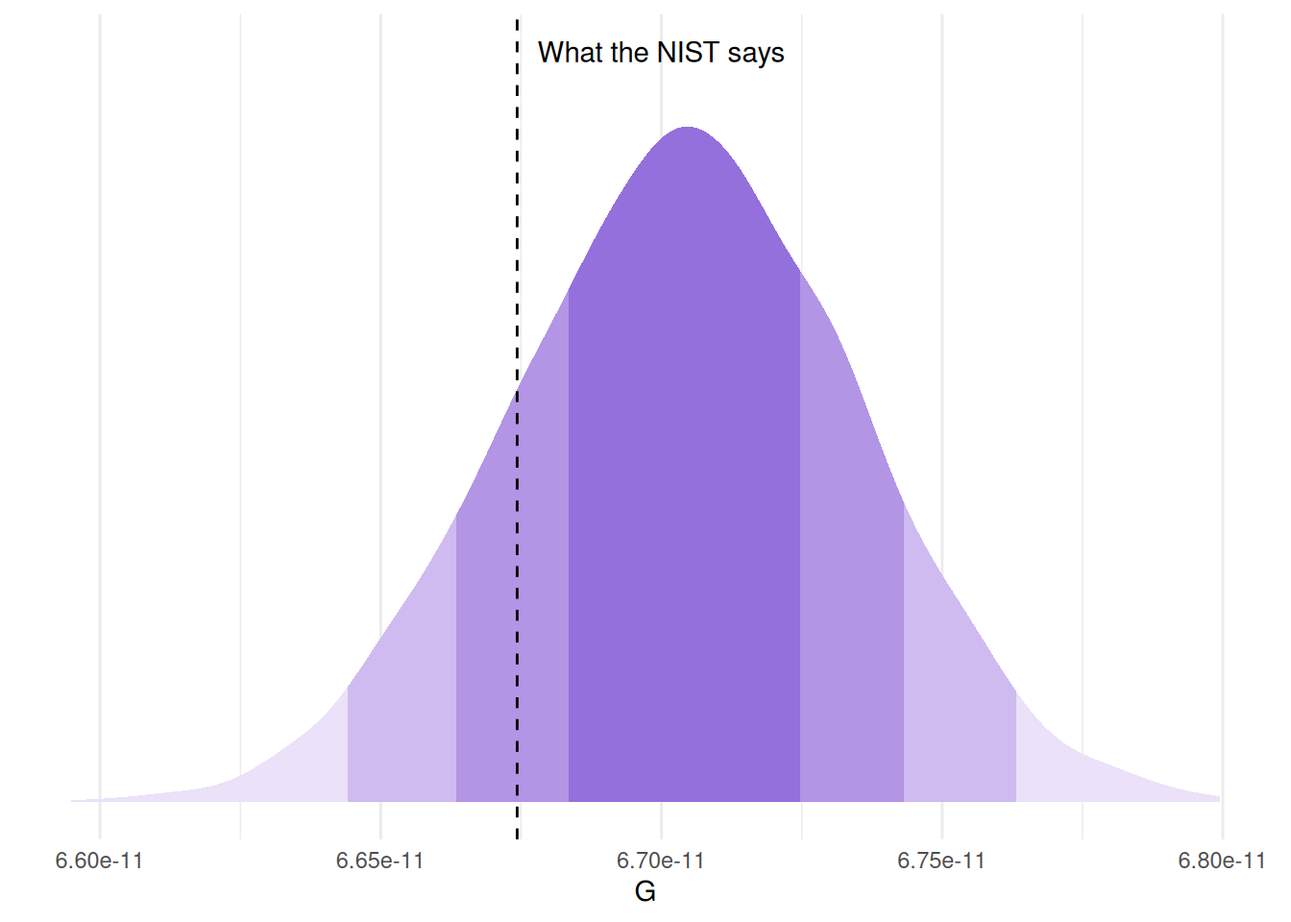
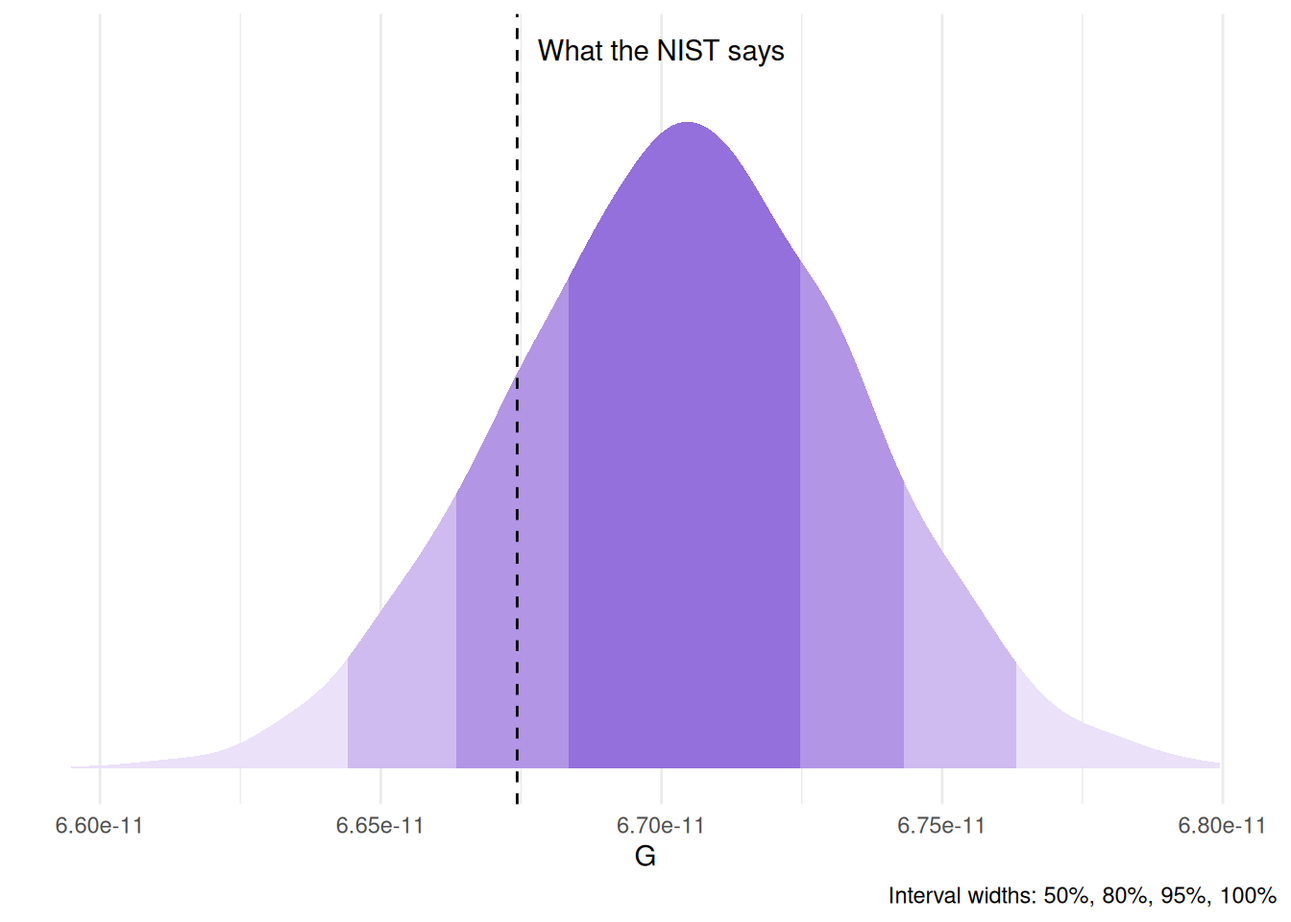
plot tweaks

diff --git a/docs/posts/gravity/index.html b/docs/posts/gravity/index.html
@@ -164,7 +164,7 @@ window.Quarto = {
 <link rel="stylesheet" href="../../styles.css">
 <meta property="og:title" content="Fitting the gravitational constant with brms – Luciano’s blog">
 <meta property="og:description" content="Desktop ecology">
-<meta property="og:image" content="https://lucianodebenedictis.github.io/blog/posts/gravity/index_files/figure-html/unnamed-chunk-7-1.png">
+<meta property="og:image" content="https://lucianodebenedictis.github.io/blog/posts/gravity/index_files/figure-html/unnamed-chunk-5-1.png">
 <meta property="og:site_name" content="Luciano’s blog">
 <meta property="og:image:height" content="960">
 <meta property="og:image:width" content="1344">
@@ -444,8 +444,8 @@ window.Quarto = {
 </blockquote>
 <section id="what" class="level2">
 <h2 class="anchored" data-anchor-id="what">What?</h2>
-<p>In some disciplines, there is a disconnect between scientific theory and use of models and current practice. In physics, for example, theory often results in an explicit functional form, this model is tested against reality, and it is provisionally kept as long as there are no obvious discrepancies with observation. If and when those arise, it’s an incentive to question the model and look for a better one. In many other scientific fields, the role of falsification seems like the opposite: nobody really believes the “null” model represents reality, and observing a lack of fit to data is the goal. Null hypothesis rejected, you discovered something new (maybe) and you win! This contrast has been highlighted several times, for example by <span class="citation" data-cites="meehl1967">(<a href="#ref-meehl1967" role="doc-biblioref">Meehl 1967</a>)</span>.</p>
-<p>It doesn’t have to be like this. Even when fitting statistical models to empirical data, sometimes you’re lucky and theory provides you with a formula that you can use in place of an additive linear model. Chapter 16 of <span class="citation" data-cites="mcelreath2020">(<a href="#ref-mcelreath2020" role="doc-biblioref">McElreath 2020</a>)</span> is dedicated to examples of this, including one with the Lotka-Volterra equations. Nonlinear model formulas are key to this approach, so, with the purpose of getting in some exercise with them in <code>brms</code>, I have developed the following contrived example:</p>
+<p>In some disciplines, there is a disconnect between scientific theory and use of models and current practice. In physics, for example, theory often results in an explicit functional form, this model is tested against reality, and it is provisionally kept as long as there are no obvious discrepancies with observation. If and when those arise, it’s an incentive to question the model and look for a better one. In many other scientific fields, the role of falsification seems like the opposite: nobody really believes the “null” model represents reality, and observing a lack of fit to data is the goal. Null hypothesis rejected, you discovered something new (maybe) and you win! This contrast has been highlighted several times, for example by <span class="citation" data-cites="meehl1967">Meehl (<a href="#ref-meehl1967" role="doc-biblioref">1967</a>)</span>.</p>
+<p>It doesn’t have to be like this. Even when fitting statistical models to empirical data, sometimes you’re lucky and theory provides you with a formula that you can use in place of an additive linear model. Chapter 16 of <span class="citation" data-cites="mcelreath2020">McElreath (<a href="#ref-mcelreath2020" role="doc-biblioref">2020</a>)</span> is dedicated to examples of this, including one with the Lotka-Volterra equations. Nonlinear model formulas are key to this approach, so, with the purpose of getting in some exercise with them in <code>brms</code>, I have developed the following contrived example:</p>
 <p><strong><em>Let’s fit Kepler’s third law in <code>brms</code> to find the gravitational constant G</em></strong></p>
 <p>What I mean exactly is the <a href="https://en.wikipedia.org/wiki/Kepler's_laws_of_planetary_motion#Third_law">formula</a> that you get by substituting Newton’s law of gravitation into Kepler’s law</p>
 <p><span class="math display">\[\frac{a^{3}}{T^{2}}=\frac{G(M+m)}{4\pi^{2}}\]</span></p>
@@ -781,17 +781,25 @@ Draws were sampled using sample(hmc). For each parameter, Bulk_ESS
 and Tail_ESS are effective sample size measures, and Rhat is the potential
 scale reduction factor on split chains (at convergence, Rhat = 1).</code></pre>
 </div>
+<div class="code-copy-outer-scaffold"><div class="sourceCode cell-code" id="cb7"><pre class="sourceCode r code-with-copy"><code class="sourceCode r"><span id="cb7-1"><a href="#cb7-1" aria-hidden="true" tabindex="-1"></a><span class="fu">pp_check</span>(fit)</span></code></pre></div><button title="Copy to Clipboard" class="code-copy-button"><i class="bi"></i></button></div>
+<div class="cell-output-display">
+<div>
+<figure class="figure">
+<p><img src="index_files/figure-html/unnamed-chunk-5-1.png" class="img-fluid figure-img" width="672"></p>
+</figure>
+</div>
+</div>
 </div>
 <p>How well did that go? Not so bad, considering all potential sources of error: almost as good as what had been derived from experiments 200 years ago, albeit with larger uncertainty.</p>
 <div class="cell">
-<div class="code-copy-outer-scaffold"><div class="sourceCode cell-code" id="cb7"><pre class="sourceCode r code-with-copy"><code class="sourceCode r"><span id="cb7-1"><a href="#cb7-1" aria-hidden="true" tabindex="-1"></a>g_draws <span class="ot">&lt;-</span> fit <span class="sc">|&gt;</span> </span>
-<span id="cb7-2"><a href="#cb7-2" aria-hidden="true" tabindex="-1"></a>  <span class="fu">as_draws_df</span>(<span class="at">variable =</span> <span class="st">"b_logG_Intercept"</span>) <span class="sc">|&gt;</span> </span>
-<span id="cb7-3"><a href="#cb7-3" aria-hidden="true" tabindex="-1"></a>  <span class="fu">mutate</span>(<span class="at">G =</span> <span class="dv">10</span><span class="sc">^</span>b_logG_Intercept)</span>
-<span id="cb7-4"><a href="#cb7-4" aria-hidden="true" tabindex="-1"></a></span>
-<span id="cb7-5"><a href="#cb7-5" aria-hidden="true" tabindex="-1"></a>g_draws <span class="sc">|&gt;</span> </span>
-<span id="cb7-6"><a href="#cb7-6" aria-hidden="true" tabindex="-1"></a>  <span class="fu">mean_qi</span>(G) <span class="sc">|&gt;</span></span>
-<span id="cb7-7"><a href="#cb7-7" aria-hidden="true" tabindex="-1"></a>  <span class="fu">mutate</span>(<span class="at">rel_uncertainty =</span> (.upper <span class="sc">-</span> .lower) <span class="sc">/</span> G <span class="sc">*</span><span class="dv">100</span>) <span class="sc">|&gt;</span> </span>
-<span id="cb7-8"><a href="#cb7-8" aria-hidden="true" tabindex="-1"></a>  <span class="fu">print</span>()</span></code></pre></div><button title="Copy to Clipboard" class="code-copy-button"><i class="bi"></i></button></div>
+<div class="code-copy-outer-scaffold"><div class="sourceCode cell-code" id="cb8"><pre class="sourceCode r code-with-copy"><code class="sourceCode r"><span id="cb8-1"><a href="#cb8-1" aria-hidden="true" tabindex="-1"></a>g_draws <span class="ot">&lt;-</span> fit <span class="sc">|&gt;</span> </span>
+<span id="cb8-2"><a href="#cb8-2" aria-hidden="true" tabindex="-1"></a>  <span class="fu">as_draws_df</span>(<span class="at">variable =</span> <span class="st">"b_logG_Intercept"</span>) <span class="sc">|&gt;</span> </span>
+<span id="cb8-3"><a href="#cb8-3" aria-hidden="true" tabindex="-1"></a>  <span class="fu">mutate</span>(<span class="at">G =</span> <span class="dv">10</span><span class="sc">^</span>b_logG_Intercept)</span>
+<span id="cb8-4"><a href="#cb8-4" aria-hidden="true" tabindex="-1"></a></span>
+<span id="cb8-5"><a href="#cb8-5" aria-hidden="true" tabindex="-1"></a>g_draws <span class="sc">|&gt;</span> </span>
+<span id="cb8-6"><a href="#cb8-6" aria-hidden="true" tabindex="-1"></a>  <span class="fu">mean_qi</span>(G) <span class="sc">|&gt;</span></span>
+<span id="cb8-7"><a href="#cb8-7" aria-hidden="true" tabindex="-1"></a>  <span class="fu">mutate</span>(<span class="at">rel_uncertainty =</span> (.upper <span class="sc">-</span> .lower) <span class="sc">/</span> G <span class="sc">*</span><span class="dv">100</span>) <span class="sc">|&gt;</span> </span>
+<span id="cb8-8"><a href="#cb8-8" aria-hidden="true" tabindex="-1"></a>  <span class="fu">print</span>()</span></code></pre></div><button title="Copy to Clipboard" class="code-copy-button"><i class="bi"></i></button></div>
 <div class="cell-output cell-output-stdout">
 <pre><code># A tibble: 1 × 7
             G      .lower      .upper .width .point .interval rel_uncertainty
@@ -801,15 +809,16 @@ scale reduction factor on split chains (at convergence, Rhat = 1).</code></pre>
 </div>
 <p>The beauty of Bayesian models is in the posterior distributions, we can look at those:</p>
 <div class="cell">
-<div class="code-copy-outer-scaffold"><div class="sourceCode cell-code" id="cb9"><pre class="sourceCode r code-with-copy"><code class="sourceCode r"><span id="cb9-1"><a href="#cb9-1" aria-hidden="true" tabindex="-1"></a>g_draws <span class="sc">|&gt;</span> </span>
-<span id="cb9-2"><a href="#cb9-2" aria-hidden="true" tabindex="-1"></a>  <span class="fu">ggplot</span>(<span class="fu">aes</span>(<span class="at">x =</span> G)) <span class="sc">+</span></span>
-<span id="cb9-3"><a href="#cb9-3" aria-hidden="true" tabindex="-1"></a>  <span class="fu">stat_slab</span>(<span class="fu">aes</span>(<span class="at">fill_ramp =</span> <span class="fu">after_stat</span>(level)),</span>
-<span id="cb9-4"><a href="#cb9-4" aria-hidden="true" tabindex="-1"></a>                    <span class="at">.width =</span> <span class="fu">c</span>(.<span class="dv">50</span>, .<span class="dv">80</span>, .<span class="dv">95</span>, <span class="dv">1</span>),</span>
-<span id="cb9-5"><a href="#cb9-5" aria-hidden="true" tabindex="-1"></a>                    <span class="at">fill =</span> <span class="st">"mediumpurple"</span>,</span>
-<span id="cb9-6"><a href="#cb9-6" aria-hidden="true" tabindex="-1"></a>            <span class="at">show.legend =</span> F) <span class="sc">+</span></span>
-<span id="cb9-7"><a href="#cb9-7" aria-hidden="true" tabindex="-1"></a>  <span class="fu">geom_vline</span>(<span class="at">xintercept =</span> <span class="fl">6.6743e-11</span>, <span class="at">linetype =</span> <span class="dv">2</span>) <span class="sc">+</span></span>
-<span id="cb9-8"><a href="#cb9-8" aria-hidden="true" tabindex="-1"></a>  <span class="fu">annotate</span>(<span class="st">"text"</span>, <span class="at">x =</span> <span class="fl">6.7e-11</span>, <span class="at">y =</span> <span class="dv">1</span>, <span class="at">label =</span> <span class="st">"What the NIST says"</span>) <span class="sc">+</span></span>
-<span id="cb9-9"><a href="#cb9-9" aria-hidden="true" tabindex="-1"></a>  <span class="fu">scale_y_continuous</span>(<span class="at">name =</span> <span class="cn">NULL</span>, <span class="at">breaks =</span> <span class="cn">NULL</span>)</span></code></pre></div><button title="Copy to Clipboard" class="code-copy-button"><i class="bi"></i></button></div>
+<div class="code-copy-outer-scaffold"><div class="sourceCode cell-code" id="cb10"><pre class="sourceCode r code-with-copy"><code class="sourceCode r"><span id="cb10-1"><a href="#cb10-1" aria-hidden="true" tabindex="-1"></a>g_draws <span class="sc">|&gt;</span> </span>
+<span id="cb10-2"><a href="#cb10-2" aria-hidden="true" tabindex="-1"></a>  <span class="fu">ggplot</span>(<span class="fu">aes</span>(<span class="at">x =</span> G)) <span class="sc">+</span></span>
+<span id="cb10-3"><a href="#cb10-3" aria-hidden="true" tabindex="-1"></a>  <span class="fu">stat_slab</span>(<span class="fu">aes</span>(<span class="at">fill_ramp =</span> <span class="fu">after_stat</span>(level)),</span>
+<span id="cb10-4"><a href="#cb10-4" aria-hidden="true" tabindex="-1"></a>                    <span class="at">.width =</span> <span class="fu">c</span>(.<span class="dv">50</span>, .<span class="dv">80</span>, .<span class="dv">95</span>, <span class="dv">1</span>),</span>
+<span id="cb10-5"><a href="#cb10-5" aria-hidden="true" tabindex="-1"></a>                    <span class="at">fill =</span> <span class="st">"mediumpurple"</span>,</span>
+<span id="cb10-6"><a href="#cb10-6" aria-hidden="true" tabindex="-1"></a>            <span class="at">show.legend =</span> F) <span class="sc">+</span></span>
+<span id="cb10-7"><a href="#cb10-7" aria-hidden="true" tabindex="-1"></a>  <span class="fu">geom_vline</span>(<span class="at">xintercept =</span> <span class="fl">6.6743e-11</span>, <span class="at">linetype =</span> <span class="dv">2</span>) <span class="sc">+</span></span>
+<span id="cb10-8"><a href="#cb10-8" aria-hidden="true" tabindex="-1"></a>  <span class="fu">annotate</span>(<span class="st">"text"</span>, <span class="at">x =</span> <span class="fl">6.7e-11</span>, <span class="at">y =</span> <span class="dv">1</span>, <span class="at">label =</span> <span class="st">"What the NIST says"</span>) <span class="sc">+</span></span>
+<span id="cb10-9"><a href="#cb10-9" aria-hidden="true" tabindex="-1"></a>  <span class="fu">scale_y_continuous</span>(<span class="at">name =</span> <span class="cn">NULL</span>, <span class="at">breaks =</span> <span class="cn">NULL</span>) <span class="sc">+</span></span>
+<span id="cb10-10"><a href="#cb10-10" aria-hidden="true" tabindex="-1"></a>  <span class="fu">labs</span>(<span class="at">caption =</span> <span class="st">"Interval widths: 50%, 80%, 95%, 100%"</span>)</span></code></pre></div><button title="Copy to Clipboard" class="code-copy-button"><i class="bi"></i></button></div>
 <div class="cell-output-display">
 <div>
 <figure class="figure">
@@ -824,35 +833,39 @@ scale reduction factor on split chains (at convergence, Rhat = 1).</code></pre>
 <p>While this is a fine demonstration of nonlinear <code>brms</code> models, at the beginning I mentioned facing the model with reality. To do this we can take the estimated value of G (with all its posterior distribution) and generate predictions on a separate dataset. In this case, I’ll predict the orbital period of planets around the sun using G, masses, and semi-major axes.</p>
 <p><span class="math display">\[T = \sqrt{\frac{4\pi^{2}a^{3}}{G\widehat{M}}}\]</span></p>
 <div class="cell">
-<div class="code-copy-outer-scaffold"><div class="sourceCode cell-code" id="cb10"><pre class="sourceCode r code-with-copy"><code class="sourceCode r"><span id="cb10-1"><a href="#cb10-1" aria-hidden="true" tabindex="-1"></a>planets <span class="ot">&lt;-</span> planets <span class="sc">|&gt;</span> </span>
-<span id="cb10-2"><a href="#cb10-2" aria-hidden="true" tabindex="-1"></a>  <span class="fu">arrange</span>(sideralOrbit) <span class="sc">|&gt;</span> </span>
-<span id="cb10-3"><a href="#cb10-3" aria-hidden="true" tabindex="-1"></a>  <span class="fu">mutate</span>(</span>
-<span id="cb10-4"><a href="#cb10-4" aria-hidden="true" tabindex="-1"></a>    <span class="at">englishName =</span> <span class="fu">fct</span>(englishName),</span>
-<span id="cb10-5"><a href="#cb10-5" aria-hidden="true" tabindex="-1"></a>    <span class="co">#the mass of the sun in kg</span></span>
-<span id="cb10-6"><a href="#cb10-6" aria-hidden="true" tabindex="-1"></a>    <span class="at">mass_sun =</span> <span class="fl">1.988475e30</span>,</span>
-<span id="cb10-7"><a href="#cb10-7" aria-hidden="true" tabindex="-1"></a>    <span class="at">M =</span> mass <span class="sc">+</span> mass_sun,</span>
-<span id="cb10-8"><a href="#cb10-8" aria-hidden="true" tabindex="-1"></a>    <span class="co">#convert semi-major axis to meters</span></span>
-<span id="cb10-9"><a href="#cb10-9" aria-hidden="true" tabindex="-1"></a>    <span class="at">a =</span> semimajorAxis <span class="sc">*</span> <span class="dv">1000</span>,</span>
-<span id="cb10-10"><a href="#cb10-10" aria-hidden="true" tabindex="-1"></a>    <span class="co">#convert sideral orbit to seconds</span></span>
-<span id="cb10-11"><a href="#cb10-11" aria-hidden="true" tabindex="-1"></a>    <span class="at">T =</span> sideralOrbit <span class="sc">*</span> <span class="fl">23.9344696</span> <span class="sc">*</span> <span class="dv">3600</span>,</span>
-<span id="cb10-12"><a href="#cb10-12" aria-hidden="true" tabindex="-1"></a>    <span class="co">#remind the value of pi to the model</span></span>
-<span id="cb10-13"><a href="#cb10-13" aria-hidden="true" tabindex="-1"></a>    <span class="at">pi =</span> pi)</span>
-<span id="cb10-14"><a href="#cb10-14" aria-hidden="true" tabindex="-1"></a></span>
-<span id="cb10-15"><a href="#cb10-15" aria-hidden="true" tabindex="-1"></a>planets_pred <span class="ot">&lt;-</span> planets <span class="sc">|&gt;</span> </span>
-<span id="cb10-16"><a href="#cb10-16" aria-hidden="true" tabindex="-1"></a>  <span class="fu">expand_grid</span>(<span class="at">G =</span> g_draws<span class="sc">$</span>G) <span class="sc">|&gt;</span> </span>
-<span id="cb10-17"><a href="#cb10-17" aria-hidden="true" tabindex="-1"></a>  <span class="fu">mutate</span>(<span class="at">Tpred =</span> <span class="fu">sqrt</span>((<span class="dv">4</span><span class="sc">*</span>pi<span class="sc">^</span><span class="dv">2</span><span class="sc">*</span>a<span class="sc">^</span><span class="dv">3</span>)<span class="sc">/</span>(G<span class="sc">*</span>M)))</span>
-<span id="cb10-18"><a href="#cb10-18" aria-hidden="true" tabindex="-1"></a></span>
-<span id="cb10-19"><a href="#cb10-19" aria-hidden="true" tabindex="-1"></a>planets_pred <span class="sc">|&gt;</span> </span>
-<span id="cb10-20"><a href="#cb10-20" aria-hidden="true" tabindex="-1"></a>  <span class="fu">ggplot</span>() <span class="sc">+</span></span>
-<span id="cb10-21"><a href="#cb10-21" aria-hidden="true" tabindex="-1"></a>  <span class="fu">stat_pointinterval</span>(<span class="fu">aes</span>(<span class="at">y =</span> Tpred)) <span class="sc">+</span></span>
-<span id="cb10-22"><a href="#cb10-22" aria-hidden="true" tabindex="-1"></a>  <span class="fu">geom_hline</span>(<span class="fu">aes</span>(<span class="at">yintercept =</span> T),</span>
-<span id="cb10-23"><a href="#cb10-23" aria-hidden="true" tabindex="-1"></a>             <span class="at">linetype =</span> <span class="dv">2</span>,</span>
-<span id="cb10-24"><a href="#cb10-24" aria-hidden="true" tabindex="-1"></a>             <span class="at">data =</span> planets) <span class="sc">+</span></span>
-<span id="cb10-25"><a href="#cb10-25" aria-hidden="true" tabindex="-1"></a>  <span class="fu">facet_wrap</span>(<span class="fu">vars</span>(englishName),</span>
-<span id="cb10-26"><a href="#cb10-26" aria-hidden="true" tabindex="-1"></a>             <span class="at">scales =</span> <span class="st">"free"</span>) <span class="sc">+</span></span>
-<span id="cb10-27"><a href="#cb10-27" aria-hidden="true" tabindex="-1"></a>  <span class="fu">scale_y_continuous</span>(<span class="at">labels =</span> scales<span class="sc">::</span><span class="fu">label_scientific</span>()) <span class="sc">+</span></span>
-<span id="cb10-28"><a href="#cb10-28" aria-hidden="true" tabindex="-1"></a>  <span class="fu">labs</span>(<span class="at">x =</span> <span class="cn">NULL</span>,</span>
-<span id="cb10-29"><a href="#cb10-29" aria-hidden="true" tabindex="-1"></a>       <span class="at">y =</span> <span class="st">"Orbital period (s)"</span>)</span></code></pre></div><button title="Copy to Clipboard" class="code-copy-button"><i class="bi"></i></button></div>
+<div class="code-copy-outer-scaffold"><div class="sourceCode cell-code" id="cb11"><pre class="sourceCode r code-with-copy"><code class="sourceCode r"><span id="cb11-1"><a href="#cb11-1" aria-hidden="true" tabindex="-1"></a>planets <span class="ot">&lt;-</span> planets <span class="sc">|&gt;</span> </span>
+<span id="cb11-2"><a href="#cb11-2" aria-hidden="true" tabindex="-1"></a>  <span class="fu">arrange</span>(sideralOrbit) <span class="sc">|&gt;</span> </span>
+<span id="cb11-3"><a href="#cb11-3" aria-hidden="true" tabindex="-1"></a>  <span class="fu">mutate</span>(</span>
+<span id="cb11-4"><a href="#cb11-4" aria-hidden="true" tabindex="-1"></a>    <span class="at">englishName =</span> <span class="fu">fct</span>(englishName),</span>
+<span id="cb11-5"><a href="#cb11-5" aria-hidden="true" tabindex="-1"></a>    <span class="co">#the mass of the sun in kg</span></span>
+<span id="cb11-6"><a href="#cb11-6" aria-hidden="true" tabindex="-1"></a>    <span class="at">mass_sun =</span> <span class="fl">1.988475e30</span>,</span>
+<span id="cb11-7"><a href="#cb11-7" aria-hidden="true" tabindex="-1"></a>    <span class="at">M =</span> mass <span class="sc">+</span> mass_sun,</span>
+<span id="cb11-8"><a href="#cb11-8" aria-hidden="true" tabindex="-1"></a>    <span class="co">#convert semi-major axis to meters</span></span>
+<span id="cb11-9"><a href="#cb11-9" aria-hidden="true" tabindex="-1"></a>    <span class="at">a =</span> semimajorAxis <span class="sc">*</span> <span class="dv">1000</span>,</span>
+<span id="cb11-10"><a href="#cb11-10" aria-hidden="true" tabindex="-1"></a>    <span class="co">#convert sideral orbit to seconds</span></span>
+<span id="cb11-11"><a href="#cb11-11" aria-hidden="true" tabindex="-1"></a>    <span class="at">T =</span> sideralOrbit <span class="sc">*</span> <span class="fl">23.9344696</span> <span class="sc">*</span> <span class="dv">3600</span>,</span>
+<span id="cb11-12"><a href="#cb11-12" aria-hidden="true" tabindex="-1"></a>    <span class="co">#remind the value of pi to the model</span></span>
+<span id="cb11-13"><a href="#cb11-13" aria-hidden="true" tabindex="-1"></a>    <span class="at">pi =</span> pi)</span>
+<span id="cb11-14"><a href="#cb11-14" aria-hidden="true" tabindex="-1"></a></span>
+<span id="cb11-15"><a href="#cb11-15" aria-hidden="true" tabindex="-1"></a>planets_pred <span class="ot">&lt;-</span> planets <span class="sc">|&gt;</span> </span>
+<span id="cb11-16"><a href="#cb11-16" aria-hidden="true" tabindex="-1"></a>  <span class="fu">expand_grid</span>(<span class="at">G =</span> g_draws<span class="sc">$</span>G) <span class="sc">|&gt;</span> </span>
+<span id="cb11-17"><a href="#cb11-17" aria-hidden="true" tabindex="-1"></a>  <span class="fu">mutate</span>(<span class="at">Tpred =</span> <span class="fu">sqrt</span>((<span class="dv">4</span><span class="sc">*</span>pi<span class="sc">^</span><span class="dv">2</span><span class="sc">*</span>a<span class="sc">^</span><span class="dv">3</span>)<span class="sc">/</span>(G<span class="sc">*</span>M)))</span>
+<span id="cb11-18"><a href="#cb11-18" aria-hidden="true" tabindex="-1"></a></span>
+<span id="cb11-19"><a href="#cb11-19" aria-hidden="true" tabindex="-1"></a>planets_pred <span class="sc">|&gt;</span> </span>
+<span id="cb11-20"><a href="#cb11-20" aria-hidden="true" tabindex="-1"></a>  <span class="fu">ggplot</span>() <span class="sc">+</span></span>
+<span id="cb11-21"><a href="#cb11-21" aria-hidden="true" tabindex="-1"></a>  <span class="fu">stat_pointinterval</span>(<span class="fu">aes</span>(<span class="at">y =</span> Tpred)) <span class="sc">+</span></span>
+<span id="cb11-22"><a href="#cb11-22" aria-hidden="true" tabindex="-1"></a>  <span class="fu">geom_hline</span>(<span class="fu">aes</span>(<span class="at">yintercept =</span> T),</span>
+<span id="cb11-23"><a href="#cb11-23" aria-hidden="true" tabindex="-1"></a>             <span class="at">linetype =</span> <span class="dv">2</span>,</span>
+<span id="cb11-24"><a href="#cb11-24" aria-hidden="true" tabindex="-1"></a>             <span class="at">data =</span> planets) <span class="sc">+</span></span>
+<span id="cb11-25"><a href="#cb11-25" aria-hidden="true" tabindex="-1"></a>  <span class="fu">facet_wrap</span>(<span class="fu">vars</span>(englishName),</span>
+<span id="cb11-26"><a href="#cb11-26" aria-hidden="true" tabindex="-1"></a>             <span class="at">scales =</span> <span class="st">"free"</span>) <span class="sc">+</span></span>
+<span id="cb11-27"><a href="#cb11-27" aria-hidden="true" tabindex="-1"></a>  <span class="fu">scale_y_continuous</span>(<span class="at">labels =</span> scales<span class="sc">::</span><span class="fu">label_scientific</span>()) <span class="sc">+</span></span>
+<span id="cb11-28"><a href="#cb11-28" aria-hidden="true" tabindex="-1"></a>  <span class="fu">scale_x_discrete</span>() <span class="sc">+</span></span>
+<span id="cb11-29"><a href="#cb11-29" aria-hidden="true" tabindex="-1"></a>  <span class="fu">labs</span>(<span class="at">x =</span> <span class="cn">NULL</span>,</span>
+<span id="cb11-30"><a href="#cb11-30" aria-hidden="true" tabindex="-1"></a>       <span class="at">y =</span> <span class="st">"Orbital period (s)"</span>,</span>
+<span id="cb11-31"><a href="#cb11-31" aria-hidden="true" tabindex="-1"></a>       <span class="at">title =</span> <span class="st">"Predicting orbital periods"</span>,</span>
+<span id="cb11-32"><a href="#cb11-32" aria-hidden="true" tabindex="-1"></a>       <span class="at">caption =</span> <span class="st">"Median, 66% and 95% quantile intervals. Dashed line represents official value"</span>) <span class="sc">+</span></span>
+<span id="cb11-33"><a href="#cb11-33" aria-hidden="true" tabindex="-1"></a>  <span class="fu">theme</span>(<span class="at">plot.title =</span> <span class="fu">element_text</span>(<span class="at">hjust =</span> <span class="fl">0.5</span>))</span></code></pre></div><button title="Copy to Clipboard" class="code-copy-button"><i class="bi"></i></button></div>
 <div class="cell-output-display">
 <div>
 <figure class="figure">
@@ -861,7 +874,7 @@ scale reduction factor on split chains (at convergence, Rhat = 1).</code></pre>
 </div>
 </div>
 </div>
-<p>Not too bad!</p>
+<p>Not too bad! Even with our humble estimation, we can still decently predict the orbit of planets.</p>
 
 
 

diff --git a/docs/index.html b/docs/index.html
@@ -415,10 +415,10 @@ window.Quarto = {
     </div>
 </div>
 <div class="list quarto-listing-default">
-<div class="quarto-post image-left" data-index="0" data-listing-date-sort="1785794400000" data-listing-file-modified-sort="1785857362796" data-listing-date-modified-sort="NaN" data-listing-reading-time-sort="9" data-listing-word-count-sort="1631">
+<div class="quarto-post image-left" data-index="0" data-listing-date-sort="1785794400000" data-listing-file-modified-sort="1785859119559" data-listing-date-modified-sort="NaN" data-listing-reading-time-sort="9" data-listing-word-count-sort="1695">
 <div class="thumbnail"><a href="./posts/gravity/index.html" class="no-external">
 
-<p class="card-img-top"><img loading='lazy' src="posts/gravity/index_files/figure-html/unnamed-chunk-7-1.png"  class="thumbnail-image card-img"/></p>
+<p class="card-img-top"><img loading='lazy' src="posts/gravity/index_files/figure-html/unnamed-chunk-5-1.png"  class="thumbnail-image card-img"/></p>
 
 </a></div>
 <div class="body">
